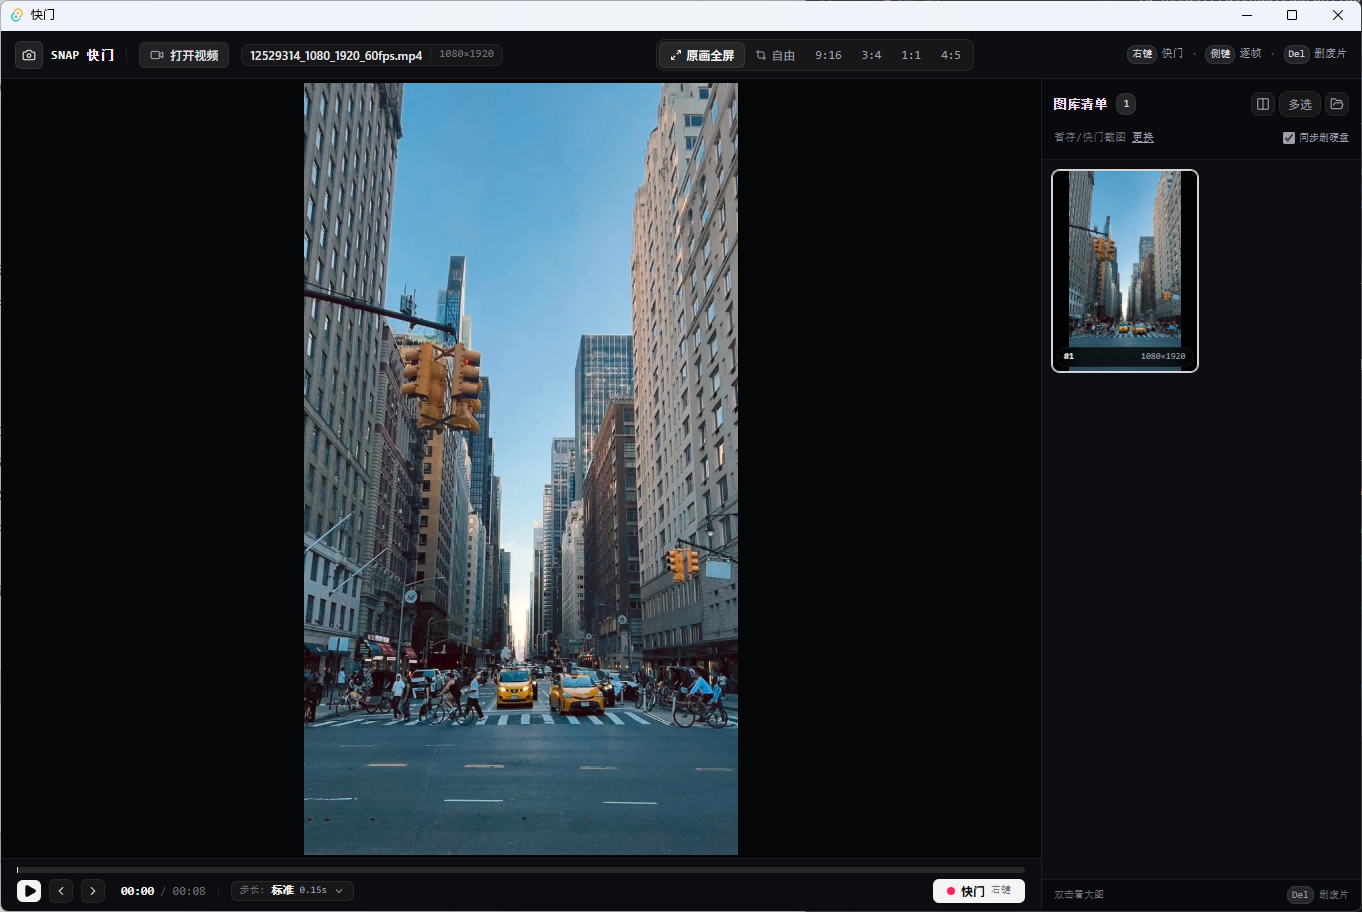
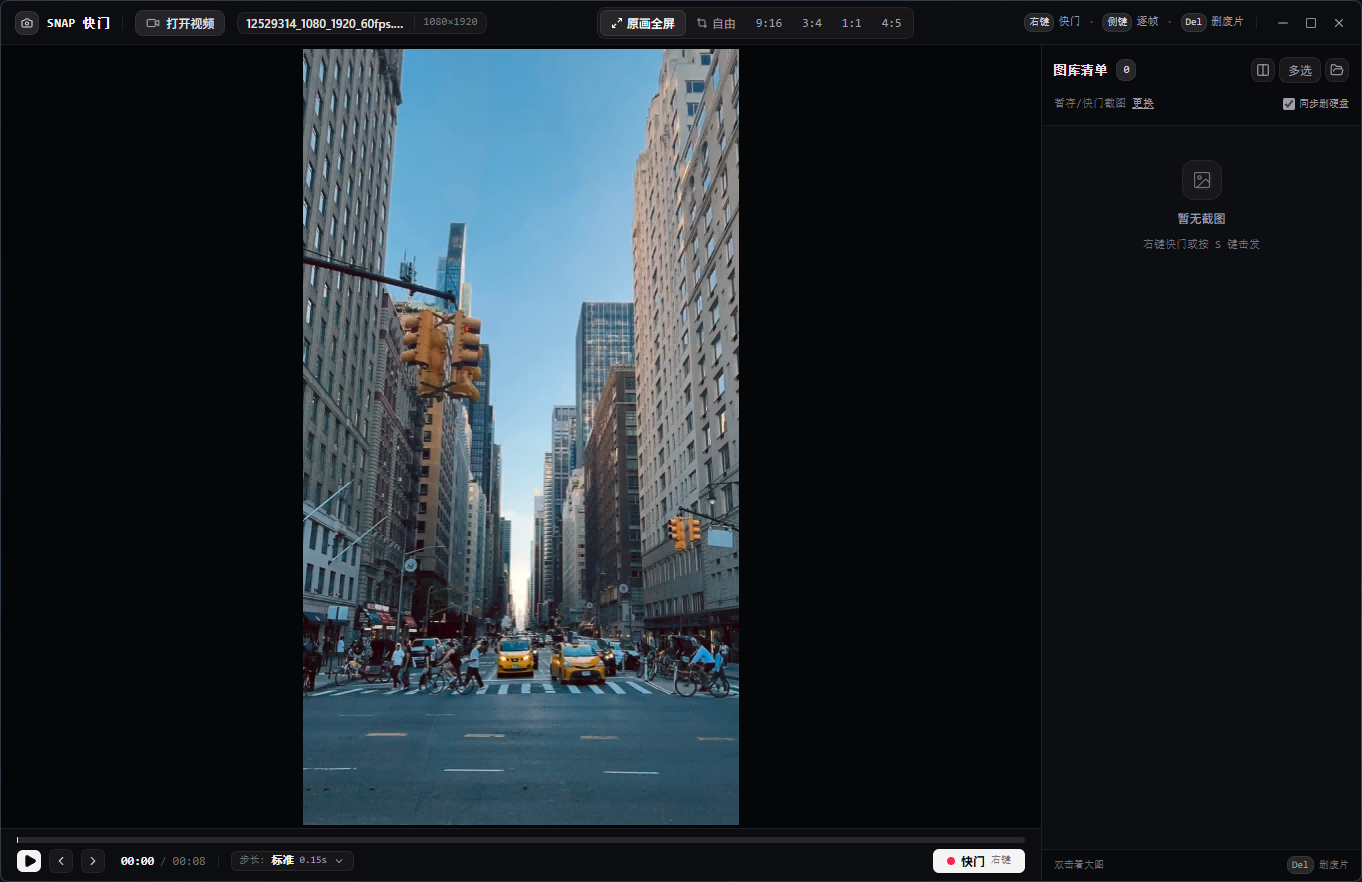
feat: 完美支持沉浸顶栏原生拖拽与双击最大化，并更新官网与README实机预览图

diff --git a/src/App.jsx b/src/App.jsx
@@ -2,7 +2,7 @@ import React, { useState, useEffect, useCallback } from 'react';
 import { Camera, FolderOpen, Video, Maximize2, Crop, Minus, Square, X } from 'lucide-react';
 import { VideoStage } from './components/VideoStage';
 import { Gallery } from './components/Gallery';
-import { selectFolder, selectVideoFile, saveSnapshot, deleteSnapshot, toAssetUrl, setupNativeFileDrop, minimizeWindow, toggleMaximizeWindow, closeWindow } from './bridge';
+import { selectFolder, selectVideoFile, saveSnapshot, deleteSnapshot, toAssetUrl, setupNativeFileDrop, minimizeWindow, toggleMaximizeWindow, closeWindow, startDraggingWindow } from './bridge';
 
 export function App() {
     // 当前视频源
@@ -160,15 +160,34 @@ export function App() {
         setSnapshots(prev => prev.filter(s => !idSet.has(s.id)));
     }, [snapshots]);
 
+    // 沉浸式顶栏原生窗口拖动与双击最大化
+    const handleHeaderMouseDown = (e) => {
+        if (e.button !== 0) return;
+        if (e.target.closest('button, a, input, select, textarea, [data-no-drag="true"]')) {
+            return;
+        }
+        startDraggingWindow();
+    };
+
+    const handleHeaderDoubleClick = (e) => {
+        if (e.target.closest('button, a, input, select, textarea, [data-no-drag="true"]')) {
+            return;
+        }
+        toggleMaximizeWindow();
+    };
+
     return (
         <div className="flex flex-col w-screen h-screen bg-[#09090b] text-zinc-100 overflow-hidden font-sans">
-            {/* 顶栏：沉浸式一体化无框工业美学 (支持原生窗口拖拽与窗口控制) */}
+            {/* 顶栏：沉浸式一体化无框工业美学 (原生窗口拖拽与窗口控制) */}
             <header
+                onMouseDown={handleHeaderMouseDown}
+                onDoubleClick={handleHeaderDoubleClick}
                 data-tauri-drag-region
-                className="h-11 px-3.5 bg-[#0c0d11] border-b border-white/[0.07] flex items-center justify-between shrink-0 select-none z-40"
+                style={{ WebkitAppRegion: 'drag' }}
+                className="h-11 px-3.5 bg-[#0c0d11] border-b border-white/[0.07] flex items-center justify-between shrink-0 select-none z-40 cursor-default"
             >
                 {/* 左侧：品牌与打开视频 */}
-                <div className="flex items-center gap-3" data-tauri-drag-region="false">
+                <div className="flex items-center gap-3" data-no-drag="true" style={{ WebkitAppRegion: 'no-drag' }}>
                     <div className="flex items-center gap-2">
                         <div className="w-6 h-6 rounded bg-zinc-800 border border-zinc-700/60 flex items-center justify-center shadow-inner text-zinc-200">
                             <Camera className="w-3 h-3" />
@@ -202,7 +221,7 @@ export function App() {
                 </div>
 
                 {/* 中间：截图构图比例选择器（Segmented Control） */}
-                <div className="flex items-center bg-zinc-900/90 p-0.5 rounded-lg border border-white/[0.07] text-xs" data-tauri-drag-region="false">
+                <div className="flex items-center bg-zinc-900/90 p-0.5 rounded-lg border border-white/[0.07] text-xs" data-no-drag="true" style={{ WebkitAppRegion: 'no-drag' }}>
                     <button
                         onClick={() => setCropMode('full')}
                         className={`flex items-center gap-1 px-2.5 py-1 rounded-md text-xs transition ${
@@ -246,7 +265,7 @@ export function App() {
                 </div>
 
                 {/* 右侧：极简操作指引 + 原生沉浸式窗口控件 */}
-                <div className="flex items-center gap-3 text-xs text-zinc-400 font-mono" data-tauri-drag-region="false">
+                <div className="flex items-center gap-3 text-xs text-zinc-400 font-mono" data-no-drag="true" style={{ WebkitAppRegion: 'no-drag' }}>
                     <div className="flex items-center gap-2 text-[11px] text-zinc-400">
                         <span className="flex items-center gap-1">
                             <kbd className="px-1 py-0.5 rounded bg-zinc-800/90 border border-zinc-700/60 text-zinc-300 text-[10px]">右键</kbd> 快门

diff --git a/scripts/run-build.js b/scripts/run-build.js
@@ -7,7 +7,8 @@ const cargoBin = path.join(os.homedir(), '.cargo', 'bin');
 const devkitBin = path.join(os.homedir(), 'AppData', 'Local', 'Programs', 'w64devkit', 'bin');
 
 const newPath = [cargoBin, devkitBin, process.env.PATH].filter(Boolean).join(path.delimiter);
-const env = { ...process.env, PATH: newPath };
+// 限制 Cargo 编译并发核心数为 4，避免全核心满载导致风扇狂转
+const env = { ...process.env, PATH: newPath, CARGO_BUILD_JOBS: '4' };
 
 // 尝试关闭前台冲突进程
 try {

diff --git a/src/bridge.js b/src/bridge.js
@@ -141,6 +141,13 @@ export async function closeWindow() {
     }
 }
 
+export async function startDraggingWindow() {
+    const core = await getTauriCore();
+    if (core && core.invoke) {
+        return await core.invoke('app_start_dragging');
+    }
+}
+
 // Tauri 2.0 原生窗口文件拖拽监听（彻底解决 HTML5 drop 在桌面端无法拿到路径的问题）
 export async function setupNativeFileDrop(onDropFilePaths) {
     try {

diff --git a/src-tauri/src/lib.rs b/src-tauri/src/lib.rs
@@ -194,6 +194,11 @@ fn app_close(window: tauri::Window) -> Result<(), String> {
     window.close().map_err(|e| e.to_string())
 }
 
+#[tauri::command]
+fn app_start_dragging(window: tauri::Window) -> Result<(), String> {
+    window.start_dragging().map_err(|e| e.to_string())
+}
+
 #[cfg_attr(mobile, tauri::mobile_entry_point)]
 pub fn run() {
     tauri::Builder::default()
@@ -216,7 +221,8 @@ pub fn run() {
             check_media_file,
             app_minimize,
             app_toggle_maximize,
-            app_close
+            app_close,
+            app_start_dragging
         ])
         .run(tauri::generate_context!())
         .expect("运行快门应用程序失败");
